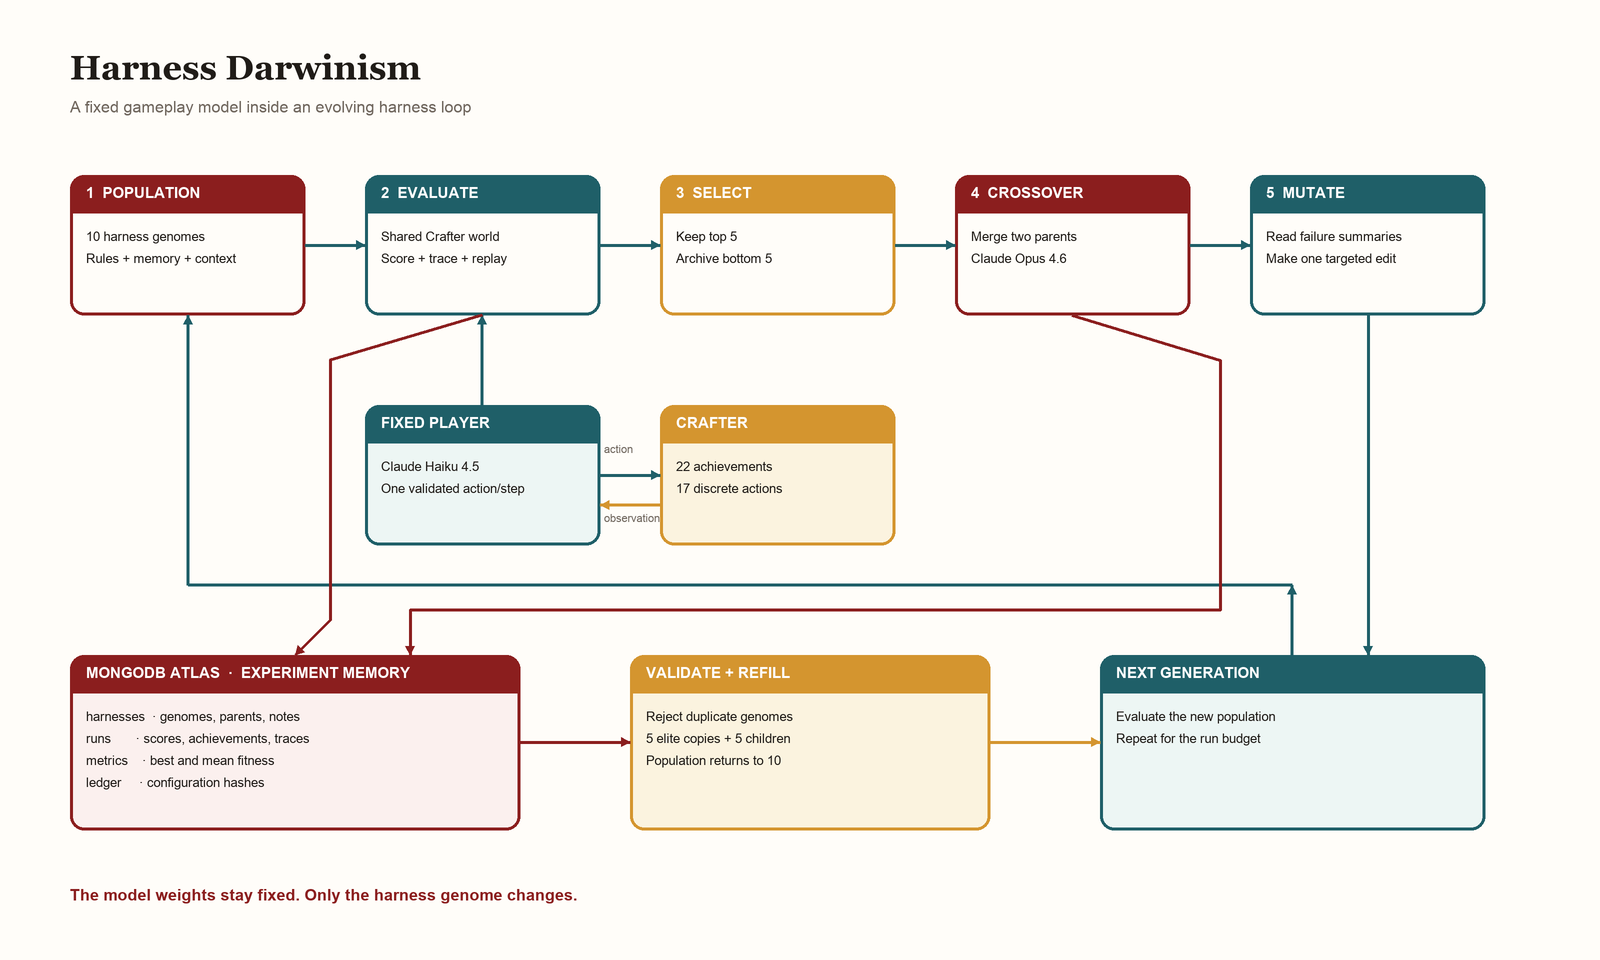
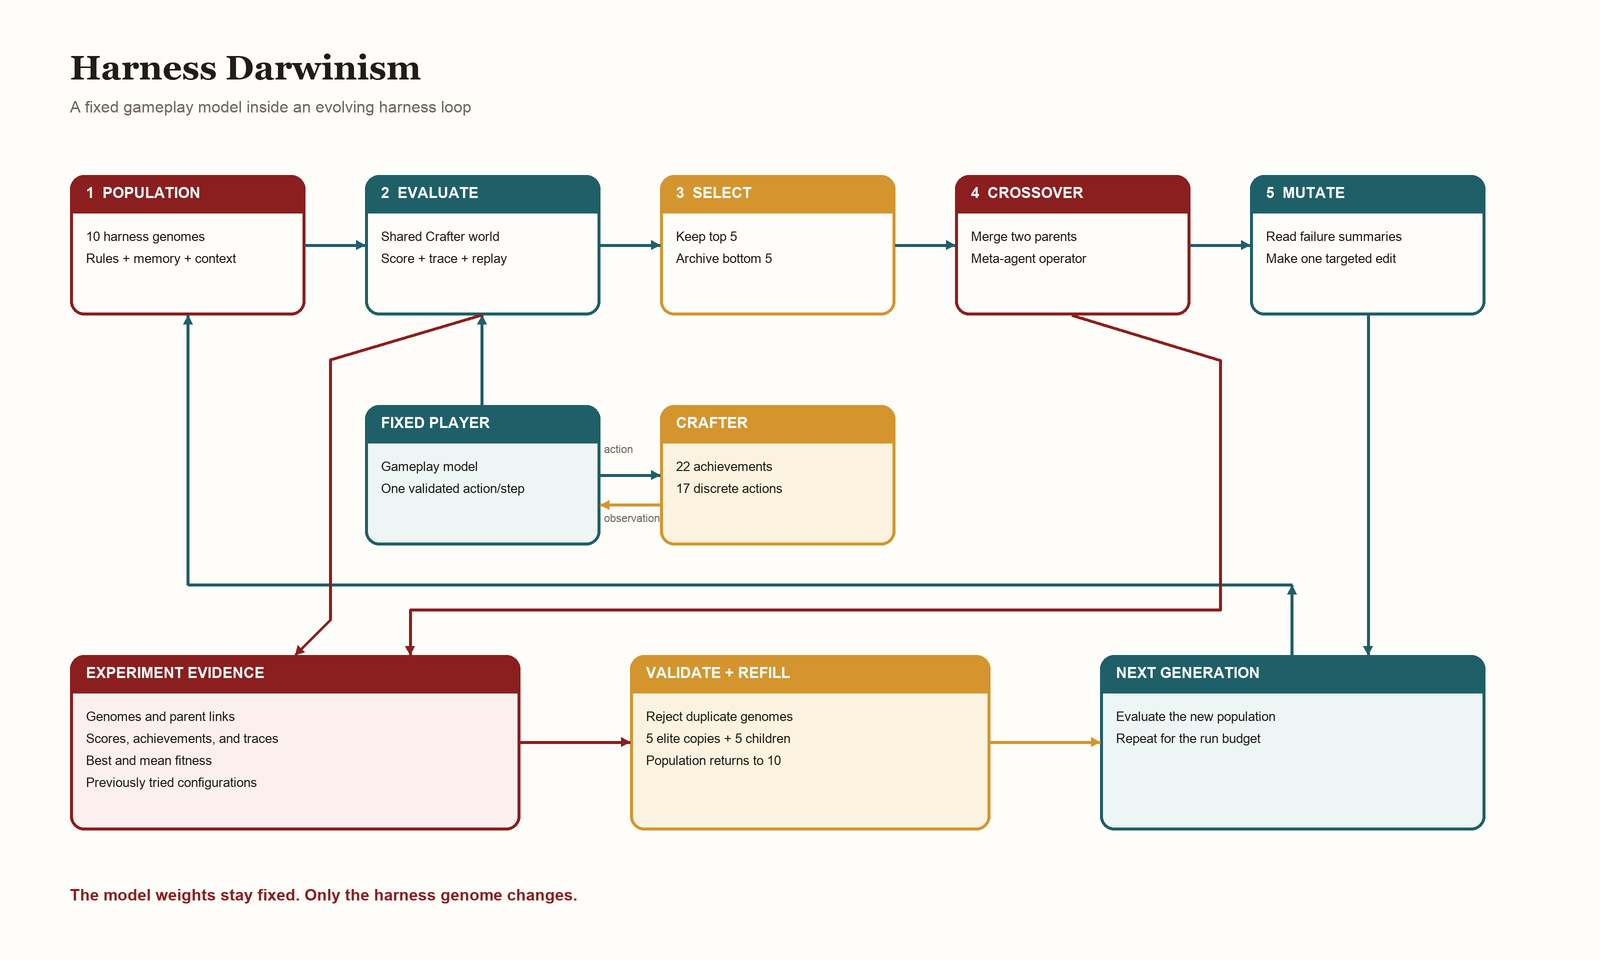
docs: separate architecture from experiment stack

Changed region(s): [[0.0625, 0.6875, 0.25, 0.8438], [0.5938, 0.25, 0.6875, 0.2812], [0.25, 0.4688, 0.3125, 0.5]]

diff --git a/docs/medium/harness-darwinism/index.html b/docs/medium/harness-darwinism/index.html
@@ -99,8 +99,8 @@
 <p>The gameplay model receives this genome with the current observation. It returns one validated Crafter action. The model and its sampling settings remain fixed across candidates.</p>
 <p>The meta-agent receives two selected genomes. It produces a typed child configuration and a note that explains which traits it retained.</p>
 <p>The meta-agent then reads failure summaries from the two parents. Each summary contains the termination reason, step count, and unlocked achievements. It proposes one targeted mutation.</p>
-<p>MongoDB stores every genome, run, score, parent link, crossover note, mutation note, and tried configuration hash. This record makes the search resumable and keeps its lineage visible.</p>
-<figure><img src="assets/architecture.png" alt="System architecture for selection, crossover, mutation, Crafter evaluation, and MongoDB persistence." loading="lazy"><figcaption>System architecture for selection, crossover, mutation, Crafter evaluation, and MongoDB persistence.</figcaption></figure>
+<p>The system records every genome, run, score, parent link, crossover note, mutation note, and tried configuration hash. This evidence makes the search resumable and keeps its lineage visible.</p>
+<figure><img src="assets/architecture.png" alt="System architecture for selection, crossover, mutation, Crafter evaluation, and experiment evidence." loading="lazy"><figcaption>System architecture for selection, crossover, mutation, Crafter evaluation, and experiment evidence.</figcaption></figure>
 <h3>3.3 Initialization</h3>
 <p>Generation 0 used ten hand-written starter rules. They covered resource collection, tool crafting, health, water, sleep, combat, and furnace construction.</p>
 <p>Each initial genome received a random subset of one to five rules. This created ten different harnesses without asking the meta-agent to design the first population.</p>
@@ -115,9 +115,9 @@
 <p>Each survivor was copied into the next generation. This elitism step protected strong genomes from poor children. It also explains why some nodes in the lineage have one parent and no crossover.</p>
 <h3>3.6 Crossover</h3>
 <p>Parent pairs were sampled with fitness-based weights. The system could also select an archived genome with a small probability to restore diversity.</p>
-<p>Claude Opus 4.6 merged complementary rules, memory settings, and context budgets. The output had to match the genome schema. Invalid output was retried up to three times.</p>
+<p>The meta-agent merged complementary rules, memory settings, and context budgets. The output had to match the genome schema. Invalid output was retried up to three times.</p>
 <h3>3.7 Mutation</h3>
-<p>After crossover, Opus read failure summaries from both parents. It added, removed, or changed one rule. It could also adjust the memory policy or context budget.</p>
+<p>After crossover, the meta-agent read failure summaries from both parents. It added, removed, or changed one rule. It could also adjust the memory policy or context budget.</p>
 <p>A global ledger stored the hash of every tried configuration. Duplicate mutations were retried three times. A deterministic context-budget change acted as the final novelty fallback.</p>
 <p>Five elite copies and five children formed the next population. The active population therefore remained fixed at ten.</p>
 <h2 id="4-experiments">4. Experiments</h2>
@@ -168,7 +168,7 @@
 <p>Our score of 5.606 is much lower. It is also not directly comparable. Published results use different observations, training budgets, policies, and many evaluation episodes.</p>
 <p>Our run used one training world and at most 200 actions per episode. Its purpose was to test harness evolution, lineage, and replay, rather than establish a Crafter benchmark result.</p>
 <h2 id="6-conclusion">6. Conclusion</h2>
-<p>Harness Darwinism turned an agent harness into a searchable genome. Selection kept stronger policies. Crossover combined parents. Mutation used failure evidence. Atlas stored the complete history.</p>
+<p>Harness Darwinism turned an agent harness into a searchable genome. Selection kept stronger policies. Crossover combined parents. Mutation used failure evidence. The system stored the complete history.</p>
 <p>At a fixed 85-action budget, best fitness improved by 41.1% and mean fitness improved by 44.2%. The longer 200-action phase reached 5.606 and improved mean fitness by 70.6% across three generations.</p>
 <p>The experiment had three main limits. It used one training world. It changed the action budget after Generation 4. It did not run a paired evaluation on unseen worlds.</p>
 <p>API usage was another constraint. One 200-action episode could send more than two million input tokens because each action repeated recent history. Larger context genes increased both capability and cost.</p>

diff --git a/docs/medium/harness-darwinism/build_assets.py b/docs/medium/harness-darwinism/build_assets.py
@@ -153,7 +153,7 @@ def build_architecture() -> None:
         draw,
         (955, 175, 1190, 315),
         "4  CROSSOVER",
-        ["Merge two parents", "Claude Opus 4.6"],
+        ["Merge two parents", "Meta-agent operator"],
         accent=RED,
     )
     box(
@@ -176,7 +176,7 @@ def build_architecture() -> None:
         draw,
         (365, 405, 600, 545),
         "FIXED PLAYER",
-        ["Claude Haiku 4.5", "One validated action/step"],
+        ["Gameplay model", "One validated action/step"],
         accent=TEAL,
         fill="#edf6f4",
     )
@@ -197,12 +197,12 @@ def build_architecture() -> None:
     box(
         draw,
         (70, 655, 520, 830),
-        "MONGODB ATLAS  ·  EXPERIMENT MEMORY",
+        "EXPERIMENT EVIDENCE",
         [
-            "harnesses  · genomes, parents, notes",
-            "runs       · scores, achievements, traces",
-            "metrics    · best and mean fitness",
-            "ledger     · configuration hashes",
+            "Genomes and parent links",
+            "Scores, achievements, and traces",
+            "Best and mean fitness",
+            "Previously tried configurations",
         ],
         accent=RED,
         fill="#fbf0ee",
@@ -291,7 +291,7 @@ def drawio_xml() -> str:
         ),
         (
             "cross",
-            "4  CROSSOVER<br>Merge two parents<br>Claude Opus 4.6",
+            "4  CROSSOVER<br>Merge two parents<br>Meta-agent operator",
             955,
             175,
             235,
@@ -309,7 +309,7 @@ def drawio_xml() -> str:
         ),
         (
             "player",
-            "FIXED PLAYER<br>Claude Haiku 4.5<br>One validated action/step",
+            "FIXED PLAYER<br>Gameplay model<br>One validated action/step",
             365,
             405,
             235,
@@ -327,7 +327,7 @@ def drawio_xml() -> str:
         ),
         (
             "atlas",
-            "MONGODB ATLAS<br>harnesses · runs · metrics · ledger",
+            "EXPERIMENT EVIDENCE<br>Genomes · runs · metrics · tried configurations",
             70,
             655,
             450,

diff --git a/docs/medium/harness-darwinism/article.md b/docs/medium/harness-darwinism/article.md
@@ -79,9 +79,9 @@ The meta-agent receives two selected genomes. It produces a typed child configur
 
 The meta-agent then reads failure summaries from the two parents. Each summary contains the termination reason, step count, and unlocked achievements. It proposes one targeted mutation.
 
-MongoDB stores every genome, run, score, parent link, crossover note, mutation note, and tried configuration hash. This record makes the search resumable and keeps its lineage visible.
+The system records every genome, run, score, parent link, crossover note, mutation note, and tried configuration hash. This evidence makes the search resumable and keeps its lineage visible.
 
-![System architecture for selection, crossover, mutation, Crafter evaluation, and MongoDB persistence.](assets/architecture.png)
+![System architecture for selection, crossover, mutation, Crafter evaluation, and experiment evidence.](assets/architecture.png)
 
 ### 3.3 Initialization
 
@@ -113,11 +113,11 @@ Each survivor was copied into the next generation. This elitism step protected s
 
 Parent pairs were sampled with fitness-based weights. The system could also select an archived genome with a small probability to restore diversity.
 
-Claude Opus 4.6 merged complementary rules, memory settings, and context budgets. The output had to match the genome schema. Invalid output was retried up to three times.
+The meta-agent merged complementary rules, memory settings, and context budgets. The output had to match the genome schema. Invalid output was retried up to three times.
 
 ### 3.7 Mutation
 
-After crossover, Opus read failure summaries from both parents. It added, removed, or changed one rule. It could also adjust the memory policy or context budget.
+After crossover, the meta-agent read failure summaries from both parents. It added, removed, or changed one rule. It could also adjust the memory policy or context budget.
 
 A global ledger stored the hash of every tried configuration. Duplicate mutations were retried three times. A deterministic context-budget change acted as the final novelty fallback.
 
@@ -237,7 +237,7 @@ Our run used one training world and at most 200 actions per episode. Its purpose
 
 ## 6. Conclusion
 
-Harness Darwinism turned an agent harness into a searchable genome. Selection kept stronger policies. Crossover combined parents. Mutation used failure evidence. Atlas stored the complete history.
+Harness Darwinism turned an agent harness into a searchable genome. Selection kept stronger policies. Crossover combined parents. Mutation used failure evidence. The system stored the complete history.
 
 At a fixed 85-action budget, best fitness improved by 41.1% and mean fitness improved by 44.2%. The longer 200-action phase reached 5.606 and improved mean fitness by 70.6% across three generations.
 
